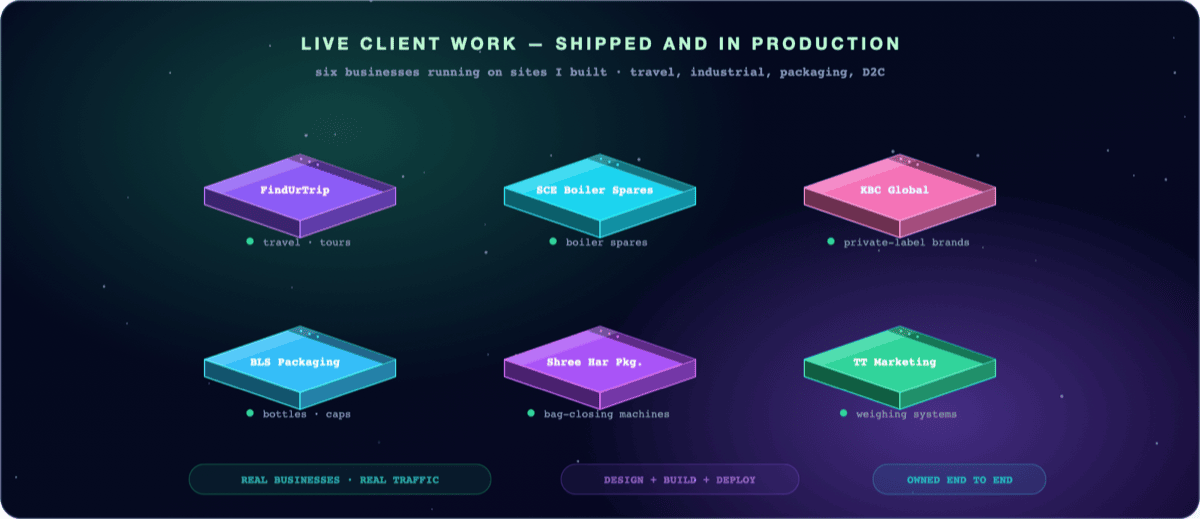
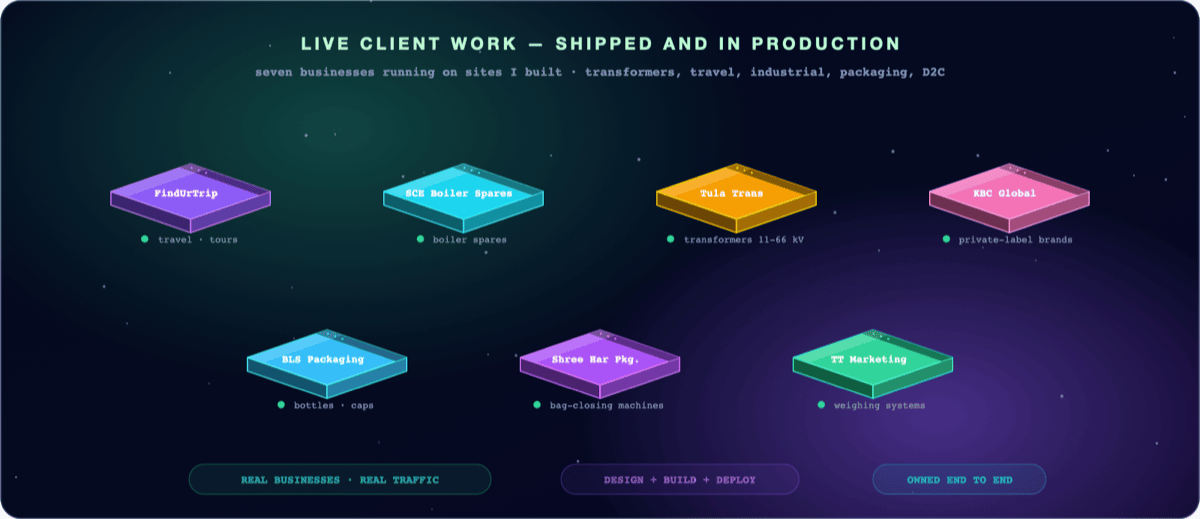
feat: add Tula Trans Electricals as the seventh client site
Transformer manufacture and repair, 11-66 kV. Reflow the client scene
from 2x3 to a 4+3 grid to fit the seventh card, and refresh its PNG
fallback.

diff --git a/assets/generate-3d-assets.py b/assets/generate-3d-assets.py
@@ -612,22 +612,29 @@ def clients():
     W, H = 1200, 520
     o = [svg_open(W, H), defs_common(), card(W, H, "glowGreen", "glowA"), stars(W, H, 40, seed=131)]
     o.append(label(600, 50, "LIVE CLIENT WORK — SHIPPED AND IN PRODUCTION", 17, "#bbf7d0", ls="3.5"))
-    o.append(label(600, 76, "six businesses running on sites I built · travel, industrial, packaging, D2C", 12.5, "#8093b8", font=MONO))
+    o.append(label(600, 76, "seven businesses running on sites I built · transformers, travel, industrial, packaging, D2C", 12.5, "#8093b8", font=MONO))
 
     sites = [
         ("FindUrTrip", "travel · tours", "#8b5cf6"),
         ("SCE Boiler Spares", "boiler spares", "#22d3ee"),
+        ("Tula Trans", "transformers 11-66 kV", "#f59e0b"),
         ("KBC Global", "private-label brands", "#f472b6"),
         ("BLS Packaging", "bottles · caps", "#38bdf8"),
         ("Shree Har Pkg.", "bag-closing machines", "#a855f7"),
         ("TT Marketing", "weighing systems", "#34d399"),
     ]
-    s = 23.0
-    for i, (name, sub, col) in enumerate(sites):
-        cx = 300 + (i % 3) * 300
-        cy = 172 + (i // 3) * 172
-        o.append(f'<g>{float_anim(6, 4.4 + (i % 4) * 0.5, i * 0.35)}'
-                 f'{screen_card(cx, cy, 4.8, 4.8, 1.2, col, s, f"c{i}", name, sub, tsize=11.5, live=True, shine_dur=5.5 + i * 0.4, begin=i * 0.6)}</g>')
+    s = 20.0
+    rows = [(4, 178), (3, 344)]
+    i = 0
+    for count, cy in rows:
+        span = 273 if count == 4 else 273
+        x0 = 600 - (count - 1) * span / 2
+        for k in range(count):
+            name, sub, col = sites[i]
+            cx = x0 + k * span
+            o.append(f'<g>{float_anim(6, 4.4 + (i % 4) * 0.5, i * 0.35)}'
+                     f'{screen_card(cx, cy, 4.6, 4.6, 1.1, col, s, f"c{i}", name, sub, tsize=10.5, ssize=9.5, live=True, shine_dur=5.5 + i * 0.4, begin=i * 0.6)}</g>')
+            i += 1
 
     o.append(chip(340, 480, "REAL BUSINESSES · REAL TRAFFIC", "#34d399", dur=3.6))
     o.append(chip(680, 480, "DESIGN + BUILD + DEPLOY", "#8b5cf6", dur=4.1))

diff --git a/README.md b/README.md
@@ -35,7 +35,7 @@ I care about shipping things that actually work — clean architecture, producti
 
 - 🔭 **Currently building:** FirstBookit — a live booking SaaS (Next.js · Express · Prisma · PostgreSQL) — scheduling, dynamic pricing, multi-role auth, Razorpay payments, revenue analytics
 - 🤖 **Exploring:** AI-powered products using LLM APIs (Groq, Anthropic/Claude)
-- 🏗 **Shipped:** 25+ production features on a live SaaS · **6 live client websites** · 19+ builds across 16 industries
+- 🏗 **Shipped:** 25+ production features on a live SaaS · **7 live client websites** · 19+ builds across 16 industries
 - 🤝 **Building with teams:** shared repos and PR-reviewed workflows across Smart India Hackathon 2026, the Gujarat Police Innovation Challenge and SEMICON India — including commits into teammates' repositories, not just my own
 - 🌱 **Deepening:** Data Structures & Algorithms (Java) and system-design fundamentals
 - 📫 **Reach me:** het@buildbyhet.me · [buildbyhet.me](https://buildbyhet.me)
@@ -302,7 +302,7 @@ flowchart LR
 
 ## 🤝 Client Work — Live in Production
 
-> Six real businesses running on sites I designed, built and deployed. Each one is a paying client's public front door, not a portfolio piece.
+> Seven real businesses running on sites I designed, built and deployed. Each one is a paying client's public front door, not a portfolio piece.
 
 <picture>
   <source media="(min-width: 768px)" srcset="./assets/clients-3d.svg">
@@ -313,6 +313,7 @@ flowchart LR
 |----------|--------------|------|
 | **FindUrTrip** | Travel & tour packages | [findurtrip.org](https://www.findurtrip.org/) |
 | **SCE Boiler Spares** | Industrial boiler spares & supply | [sceboilerspares.com](https://www.sceboilerspares.com/) |
+| **Tula Trans Electricals** | Transformer manufacture & repair, 11–66 kV — ISO 9001:2015, BIS licensed, est. 1988 | [tulatranselectricals.com](https://www.tulatranselectricals.com/) |
 | **KBC Global** | Private-label manufacturing & brand building (D2C) | [kbcglobal.in](https://www.kbcglobal.in/) |
 | **BLS Packaging** | Bottles, caps, closures & perfume packaging | [blspackaging.in](http://blspackaging.in/) |
 | **Shree Har Packaging** | Bag-closing machines & packaging equipment | [shreeharpackaging.in](https://www.shreeharpackaging.in/) |
